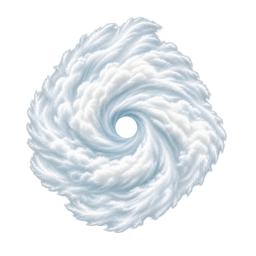
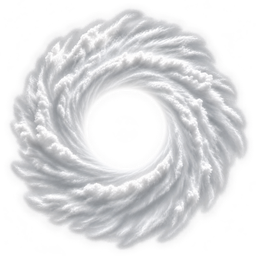
Use the approved soft gray glowing cyclone cursor with an enlarged eye

diff --git a/styles.css b/styles.css
@@ -252,10 +252,10 @@ button { font: inherit; }
 .wind-cursor { display: none; position: fixed; top: 0; left: 0; width: 28px; height: 28px; z-index: 1000; pointer-events: none; opacity: 0; transform: translate(-50%, -50%); transition: width .2s ease, height .2s ease, opacity .1s ease; }
 .wind-cursor.visible { opacity: 1; }
 .wind-cursor.near-flame { width: 38px; height: 38px; }
-.wind-cursor img { display: block; width: 100%; height: 100%; object-fit: contain; filter: drop-shadow(0 0 2px rgba(255,255,255,.9)) drop-shadow(0 0 5px rgba(184,226,255,.65)); mask-image: radial-gradient(circle at 48.5% 48.5%,transparent 0 4.5%,#000 6.3%); -webkit-mask-image: radial-gradient(circle at 48.5% 48.5%,transparent 0 4.5%,#000 6.3%); animation: wind-spin 3.6s linear infinite, wind-glow 2.4s ease-in-out infinite; }
+.wind-cursor img { display: block; width: 100%; height: 100%; object-fit: contain; filter: drop-shadow(0 0 2px rgba(255,255,255,.75)) drop-shadow(0 0 5px rgba(221,221,221,.45)); mask-image: radial-gradient(circle closest-side at 49% 50.5%,transparent 0 23%,#000 29%); -webkit-mask-image: radial-gradient(circle closest-side at 49% 50.5%,transparent 0 23%,#000 29%); animation: wind-spin 3.6s linear infinite, wind-glow 2.4s ease-in-out infinite; }
 .wind-cursor.near-flame img { animation-duration: 2s, 1.2s; }
 @keyframes wind-spin { to { transform: rotate(360deg); } }
-@keyframes wind-glow { 50% { filter: drop-shadow(0 0 3px rgba(255,255,255,1)) drop-shadow(0 0 7px rgba(184,226,255,.9)); } }
+@keyframes wind-glow { 50% { filter: drop-shadow(0 0 3px rgba(255,255,255,.95)) drop-shadow(0 0 7px rgba(221,221,221,.65)); } }
 @media (pointer: fine) {
   html, body, button, .artboard, .artboard.has-clickable-object, .hotspot, .dialog-close { cursor: none; }
   .wind-cursor { display: block; }

diff --git a/lighting-preview/index.html b/lighting-preview/index.html
@@ -8,7 +8,7 @@
   <base href="../">
   <title>Chez Theo · 亮灯预览</title>
   <style>.replay{position:fixed;bottom:18px;right:20px;border:0;border-radius:20px;padding:9px 16px;background:rgba(35,65,110,.6);color:#fff;z-index:2000}</style>
-  <link rel="stylesheet" href="styles.css?v=20261102-7">
+  <link rel="stylesheet" href="styles.css?v=20261103-1">
 </head>
 <body data-night-preview>
   <main class="site-shell" aria-label="Chez Theo 的手绘房间">
@@ -68,7 +68,7 @@
     <p>作品正在整理中，很快会住进这个房间。</p>
   </dialog>
 
-  <div class="wind-cursor" id="windCursor" aria-hidden="true"><img src="assets/cursor-vortex.png" alt=""></div>
+  <div class="wind-cursor" id="windCursor" aria-hidden="true"><img src="assets/cursor-vortex.png?v=20261103-1" alt=""></div>
   <button class="replay" id="replay" type="button">重新亮灯</button>
   <script src="room-state.js?v=20261102-7"></script>
   <script src="moonlight-data.js?v=20261102-7"></script>

diff --git a/index.html b/index.html
@@ -6,7 +6,7 @@
   <meta name="theme-color" content="#ffffff">
   <meta name="description" content="Chez Theo — 一个可以慢慢探索的手绘房间。">
   <title>Chez Theo</title>
-  <link rel="stylesheet" href="styles.css?v=20261102-7">
+  <link rel="stylesheet" href="styles.css?v=20261103-1">
 </head>
 <body>
   <main class="site-shell" aria-label="Chez Theo 的手绘房间">
@@ -66,7 +66,7 @@
     <p>作品正在整理中，很快会住进这个房间。</p>
   </dialog>
 
-  <div class="wind-cursor" id="windCursor" aria-hidden="true"><img src="assets/cursor-vortex.png" alt=""></div>
+  <div class="wind-cursor" id="windCursor" aria-hidden="true"><img src="assets/cursor-vortex.png?v=20261103-1" alt=""></div>
   <script src="room-state.js?v=20261102-7"></script>
   <script src="moonlight-data.js?v=20261102-7"></script>
   <script src="object-interactions.js?v=20261102-7"></script>
